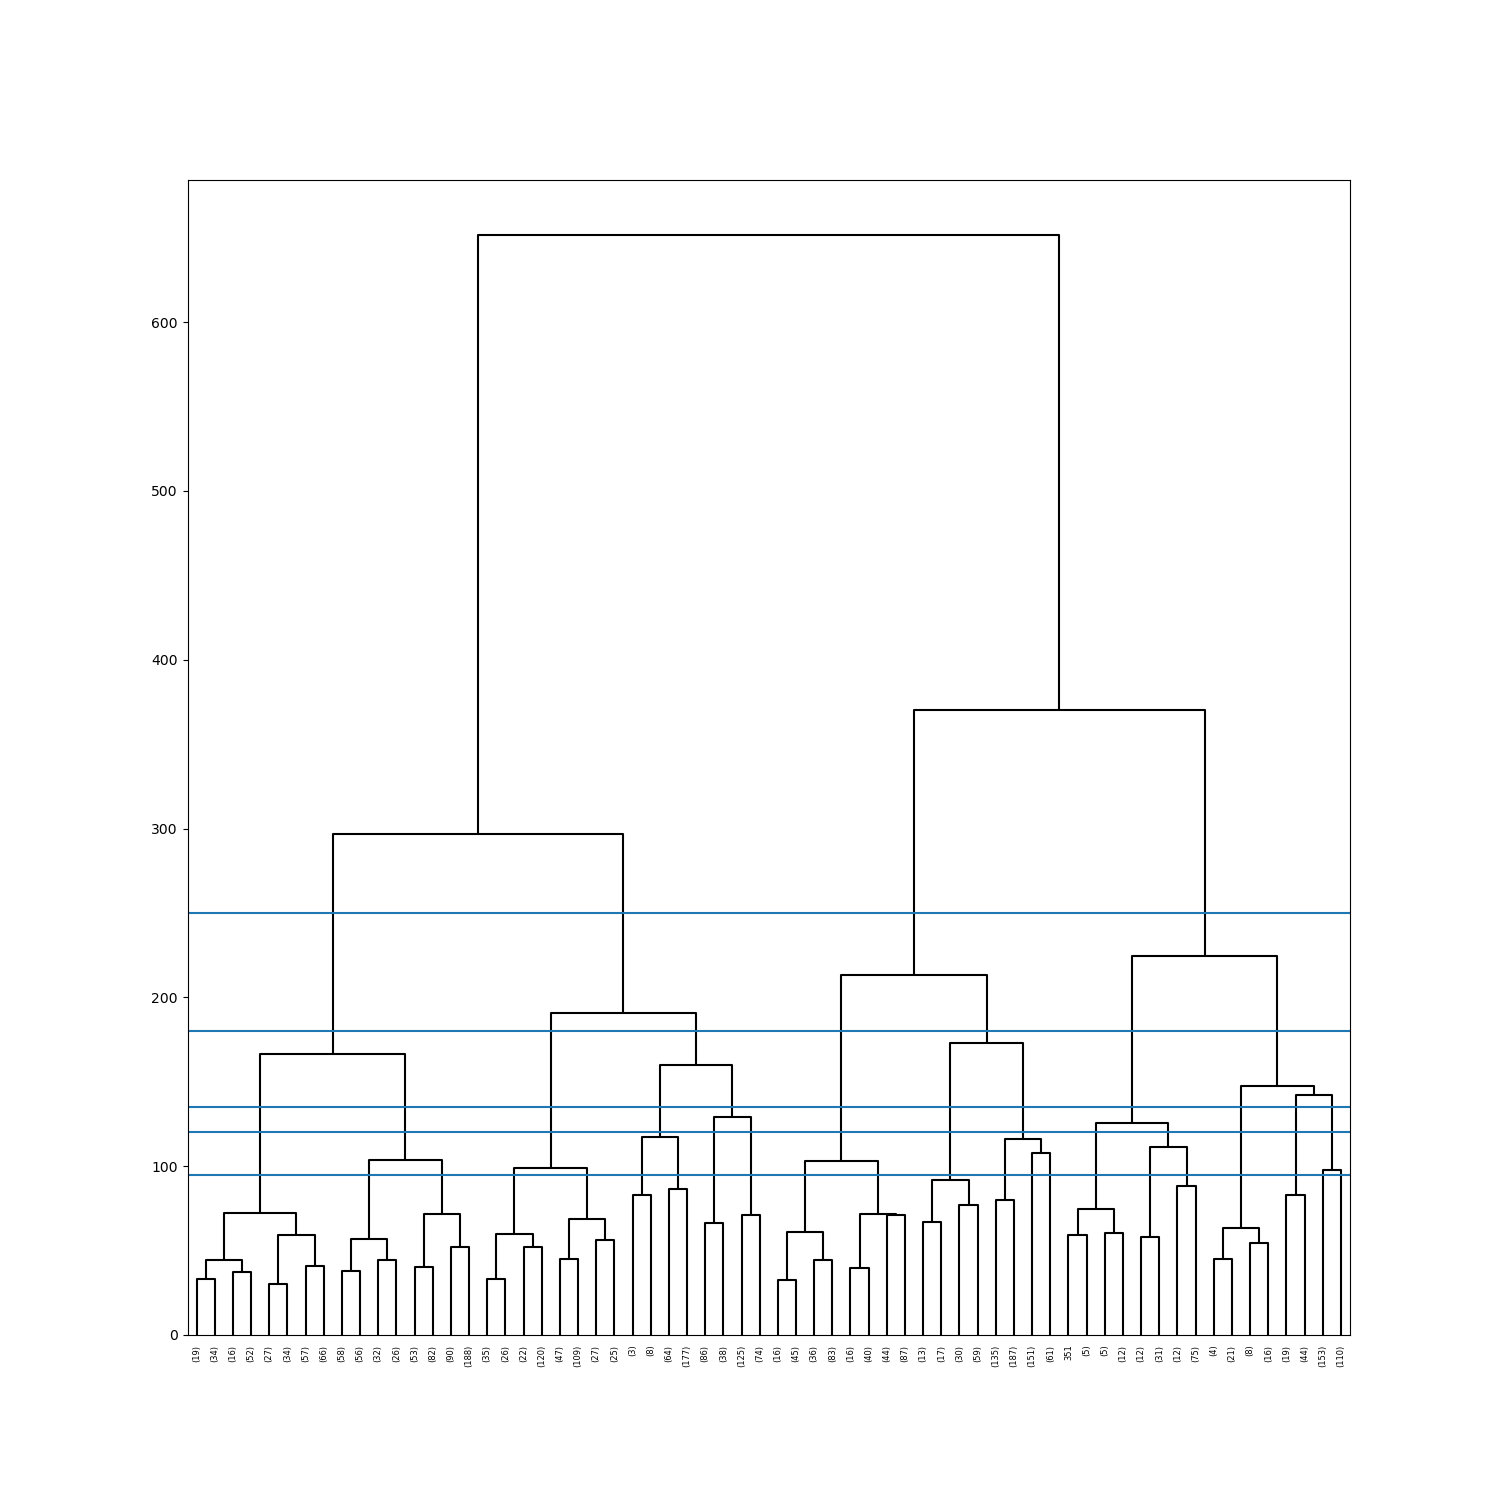
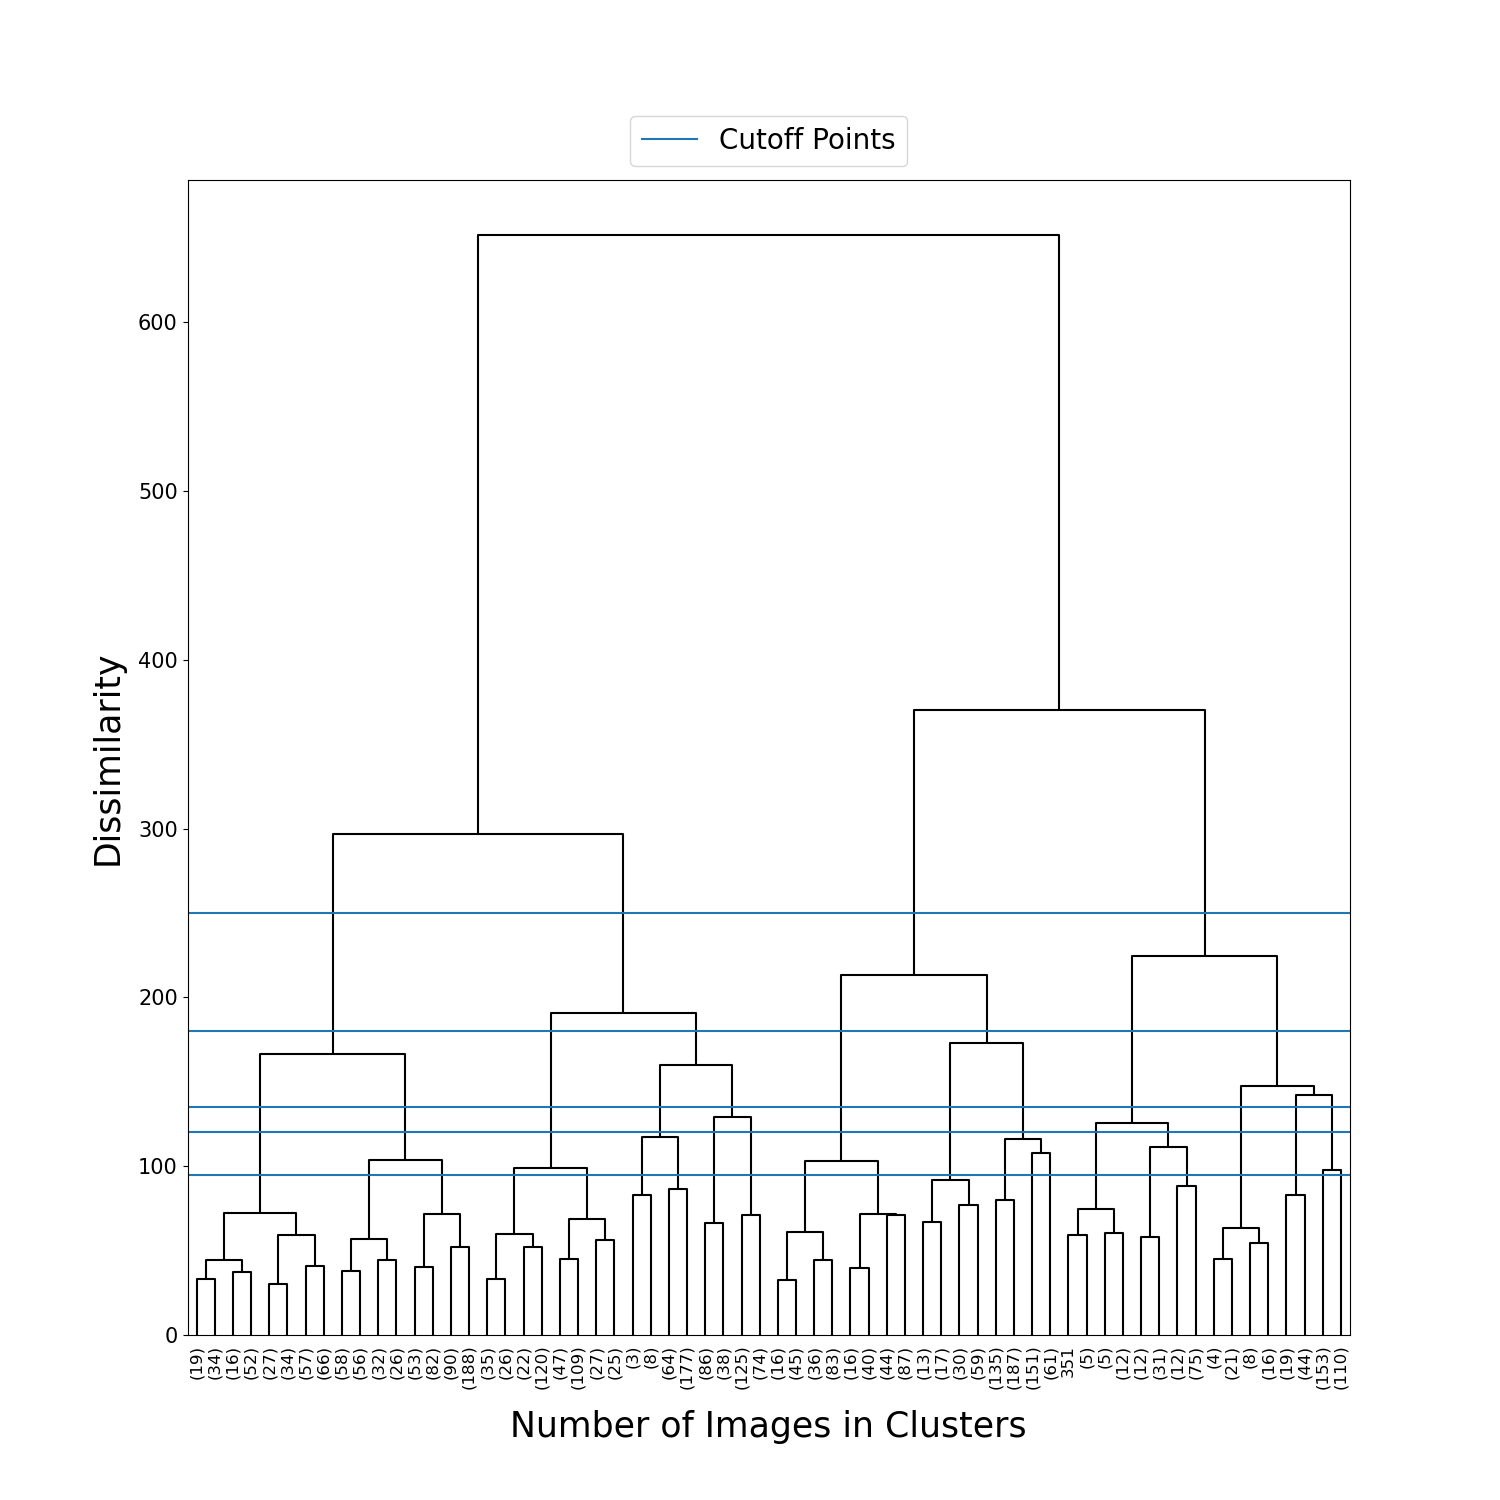
Code

diff --git a/latent_plot.py b/latent_plot.py
@@ -2,6 +2,7 @@ from tensorflow.keras.layers import Conv2D, Conv2DTranspose, MaxPooling2D, UpSam
 import keras
 from keras import backend as K
 import numpy as np
+# import IPython
 import pandas as pd
 import os
 from matplotlib import pyplot as plt
@@ -83,95 +84,101 @@ extracted_features = np.load("Features/" + str(encoding_dim) + "_features.npy")
 extracted_features_switch = np.flipud(np.rot90(extracted_features))
 
 
-median_features = []
-for i in range(encoding_dim):
-    median_features.append(np.median(extracted_features_switch[i]))
-# median_features = np.array(median_features)
 
-
-# number of latent images per feature
-latent_num = 15
-
-# prepare the latent images for every feature
-latent_features = []
-
-# loop through every feature
-for i in range(encoding_dim):
-
-    latent_images = []
-
-    # sample equally spaced values of that feature
-    feature_values = np.linspace(min(extracted_features_switch[i]), max(extracted_features_switch[i]), latent_num)
-
-    # loop through each image for that feature
-    for j in range(latent_num):
-
-        # create a list of the features which make up each image for that feature
-        latent_image_features = median_features[:]
-        latent_image_features[i] = feature_values[j]
-        latent_images.append(latent_image_features)
-
-    latent_features.append(latent_images)
-
-latent_features = np.array(latent_features)
+keras.utils.plot_model(model=autoencoder, to_file="Plots/autoencoder_layers.png")
 
 
 
 
-
-
-a = [median_features, median_features]
-
-image = decoder.predict(np.array(a))
-
-# fig, axs = plt.subplots(encoding_dim, latent_num, figsize=(10, 20))
-
-width = latent_num + 2
-height = encoding_dim + ((encoding_dim - 1) * 0.1) + 2
-
-fig = plt.figure(constrained_layout=False, figsize=(width*2, height*2))
-
-gs = fig.add_gridspec(nrows=encoding_dim, ncols=latent_num, hspace=0.1, wspace=0, left=(1/width), right=(1 - 1/width), bottom=(1/height), top=(1 - 1/height))
-
-
-# fig.subplots_adjust(bottom=0, top=1, left=0, right=1)
-
-for i in range(encoding_dim):
-
-    latent_images = decoder.predict(latent_features[i])
-
-    for j in range(latent_num):
-
-        ax = fig.add_subplot(gs[i, j])
-
-        ax.imshow(latent_images[j])
-
-        ax.set_yticklabels([])
-        ax.set_xticklabels([])
-
-        ax.set_yticks([])
-        ax.set_xticks([])
-
-
-        # ax.get_yaxis().set_visible(False)
-        # ax.get_xaxis().set_visible(False)
-
-
-        if j == 0:
-            ax.set_ylabel(i, fontsize=50, rotation=0, labelpad=40)
-
-        # axs[i][j].imshow(latent_images[j], aspect="equal")
-        # axs[i][j].get_xaxis().set_visible(False)
-        # axs[i][j].get_yaxis().set_visible(False)
-
-
-
-
-plt.savefig("Plots/latent_" + str(encoding_dim) + "_features")
-
-# print()
-# print(latent_features[0][0].tolist())
-# print(latent_features[0][4].tolist())
-
-
-plt.show()
+# median_features = []
+# for i in range(encoding_dim):
+#     median_features.append(np.median(extracted_features_switch[i]))
+# # median_features = np.array(median_features)
+#
+#
+# # number of latent images per feature
+# latent_num = 15
+#
+# # prepare the latent images for every feature
+# latent_features = []
+#
+# # loop through every feature
+# for i in range(encoding_dim):
+#
+#     latent_images = []
+#
+#     # sample equally spaced values of that feature
+#     feature_values = np.linspace(min(extracted_features_switch[i]), max(extracted_features_switch[i]), latent_num)
+#
+#     # loop through each image for that feature
+#     for j in range(latent_num):
+#
+#         # create a list of the features which make up each image for that feature
+#         latent_image_features = median_features[:]
+#         latent_image_features[i] = feature_values[j]
+#         latent_images.append(latent_image_features)
+#
+#     latent_features.append(latent_images)
+#
+# latent_features = np.array(latent_features)
+#
+#
+#
+#
+#
+#
+# a = [median_features, median_features]
+#
+# image = decoder.predict(np.array(a))
+#
+# # fig, axs = plt.subplots(encoding_dim, latent_num, figsize=(10, 20))
+#
+# width = latent_num + 2
+# height = encoding_dim + ((encoding_dim - 1) * 0.1) + 2
+#
+# fig = plt.figure(constrained_layout=False, figsize=(width*2, height*2))
+#
+# gs = fig.add_gridspec(nrows=encoding_dim, ncols=latent_num, hspace=0.1, wspace=0, left=(1/width), right=(1 - 1/width), bottom=(1/height), top=(1 - 1/height))
+#
+#
+# # fig.subplots_adjust(bottom=0, top=1, left=0, right=1)
+#
+# for i in range(encoding_dim):
+#
+#     latent_images = decoder.predict(latent_features[i])
+#
+#     for j in range(latent_num):
+#
+#         ax = fig.add_subplot(gs[i, j])
+#
+#         ax.imshow(latent_images[j])
+#
+#         ax.set_yticklabels([])
+#         ax.set_xticklabels([])
+#
+#         ax.set_yticks([])
+#         ax.set_xticks([])
+#
+#
+#         # ax.get_yaxis().set_visible(False)
+#         # ax.get_xaxis().set_visible(False)
+#
+#
+#         if j == 0:
+#             ax.set_ylabel(i, fontsize=50, rotation=0, labelpad=40)
+#
+#         # axs[i][j].imshow(latent_images[j], aspect="equal")
+#         # axs[i][j].get_xaxis().set_visible(False)
+#         # axs[i][j].get_yaxis().set_visible(False)
+#
+#
+#
+#
+# plt.savefig("Plots/latent_" + str(encoding_dim) + "_features")
+#
+# # print()
+# # print(latent_features[0][0].tolist())
+# # print(latent_features[0][4].tolist())
+#
+#
+# plt.show()

diff --git a/clustering.py b/clustering.py
@@ -23,16 +23,6 @@ n_clusters = 4
 # load the extracted features
 extracted_features = np.load("Features/" + str(encoding_dim) + "_features.npy")
 
-biased_extracted_features = extracted_features.tolist()
-
-for i in range(len(biased_extracted_features)):
-    for j in range(10):
-        biased_extracted_features[i].append(biased_extracted_features[i][14])
-
-biased_extracted_features = np.array(biased_extracted_features)
-
-print(biased_extracted_features.shape)
-
 # A = [1, 2, 4, 8, 16]
 #
 # for i in A:
@@ -50,8 +40,8 @@ print(biased_extracted_features.shape)
 
 # perform hierarchical ward clustering
 hierarchical = AgglomerativeClustering(n_clusters=None, distance_threshold=0, affinity="euclidean", linkage="ward")
-# hierarchical = hierarchical.fit(extracted_features)
-hierarchical = hierarchical.fit(biased_extracted_features)
+hierarchical = hierarchical.fit(extracted_features)
+# hierarchical = hierarchical.fit(biased_extracted_features)
 
 
 
@@ -85,17 +75,24 @@ plt.figure(figsize=(15,15))
 # plot_dendrogram(hierarchical, truncate_mode="lastp", p=464 )
 plot_dendrogram(hierarchical, truncate_mode="level", p=5, color_threshold=0, link_color_func=lambda k:"black")
 
-plt.axhline(y=95)
+plt.ylabel("Dissimilarity", fontsize=25, labelpad=10)
+plt.xlabel("Number of Images in Clusters", fontsize=25, labelpad=15)
+plt.xticks(fontsize=12)
+plt.yticks(fontsize=15)
+
+plt.axhline(y=95, label="Cutoff Points")
 plt.axhline(y=120)
 plt.axhline(y=135)
 plt.axhline(y=180)
 plt.axhline(y=250)
+
+plt.legend(bbox_to_anchor=(0., 1.00, 1., .100), loc='lower center', fontsize=20)
 
 # plt.axhline(y=375)
 # plt.axhline(y=235)
 # plt.axhline(y=134)
 # plt.axhline(y=93)
 
-plt.savefig("Plots/hierarcial_clustering_dendrogram_biased")
+plt.savefig("Plots/hierarcial_clustering_dendrogram.eps")
 plt.show()
 
